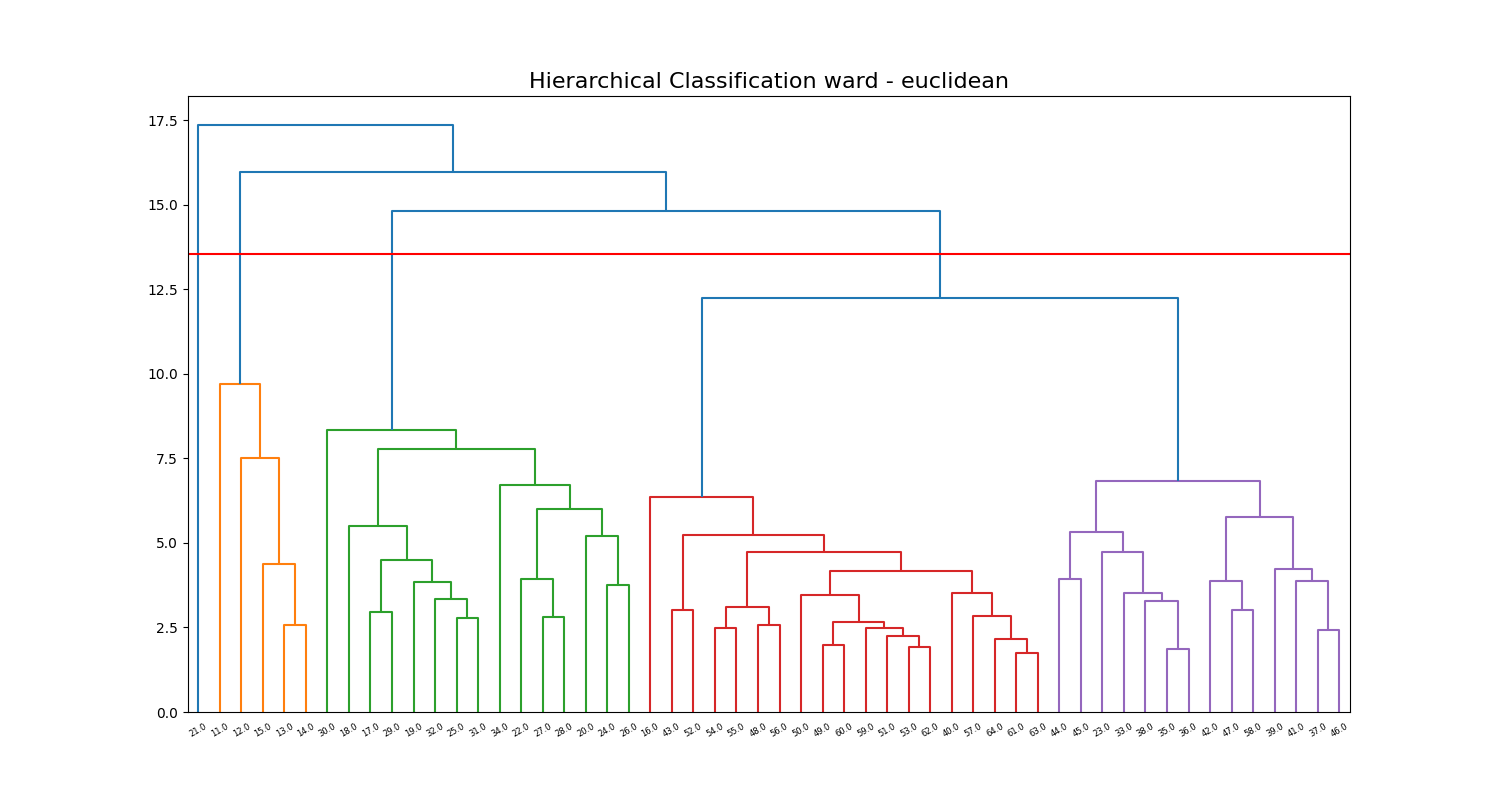
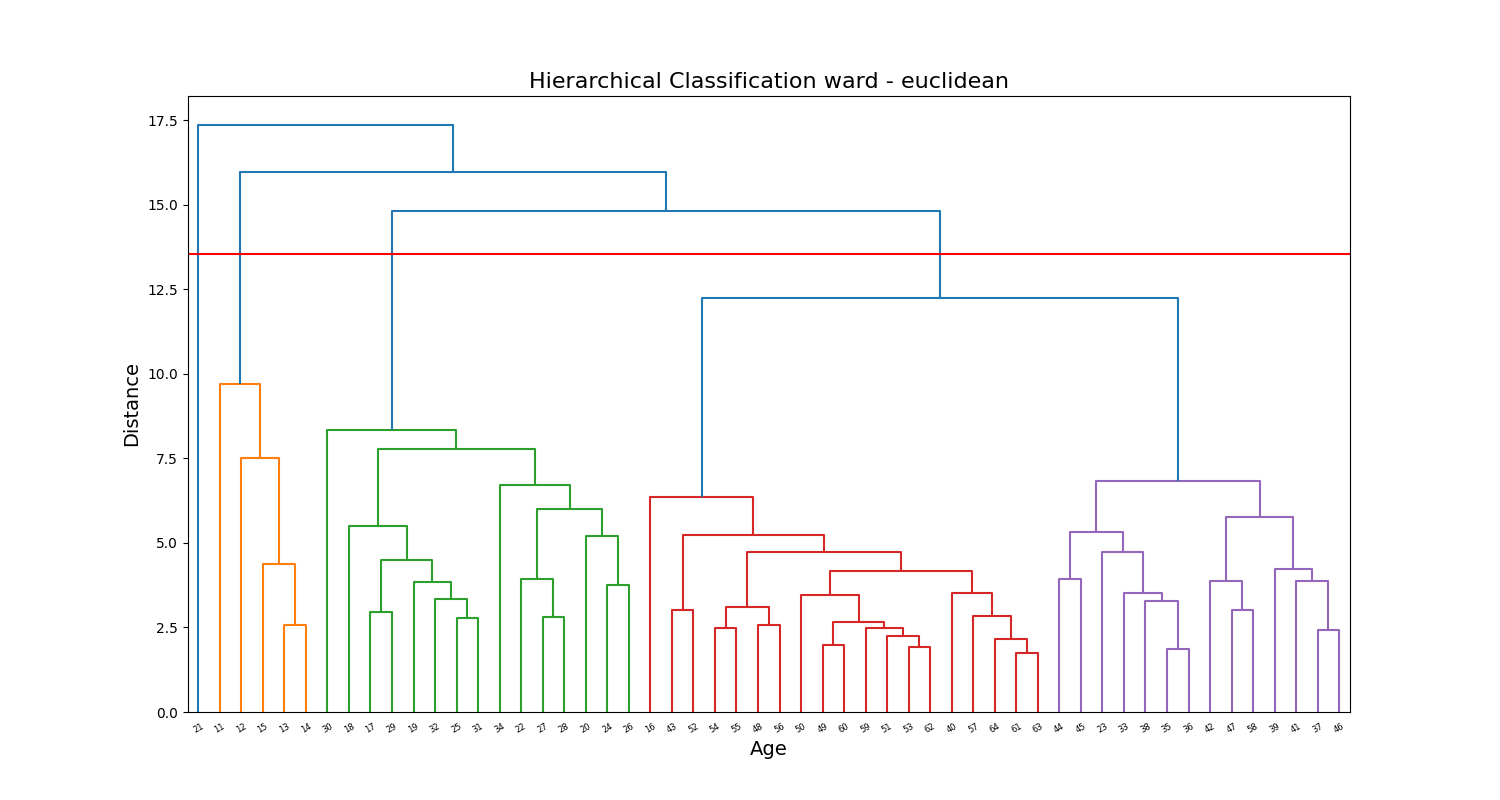
updated to HCA graph

Changed region(s): [[0.1227, 0.9062, 0.8893, 0.9375], [0.0613, 0.4688, 0.092, 0.5625]]

diff --git a/mainHCA.py b/mainHCA.py
@@ -13,6 +13,8 @@ def dendrogram(h, labels, title='Hierarchical Classification', threshold=None):
     hic.dendrogram(h, labels=labels, leaf_rotation=30)
     if threshold:
         plt.axhline(threshold, c='r')
+    plt.xlabel('Age', fontsize=14, color='k', verticalalignment='top')
+    plt.ylabel('Distance', fontsize=14, color='k', verticalalignment='bottom')
 
 def threshold(h):
     m = np.shape(h)[0]
@@ -40,7 +42,7 @@ startIdx = 10
 endIdx = 64
 
 table = pd.read_csv('dataIN/thyroid_dataset_hca.csv', index_col=0, na_values='')
-obsName = table.index[startIdx:endIdx]
+obsName = [int(i) for i in table.index[startIdx:endIdx]]
 X = table.iloc[startIdx:endIdx, :].values
 
 methods = list(hic._LINKAGE_METHODS)

diff --git a/README.md b/README.md
@@ -100,9 +100,9 @@ The factor loadings plot shows the relationship between the variables and the pr
 
 ### Hierarchical Clustering Analysis
 
-This analysis is used to cluster the data into groups based on the age of the patients, starting from $10$ all the way to $64$.
+This analysis is used to cluster the data into groups based on the age of the patients, starting from $10$ all the way up to $64$.
 
-![HCA dendrogram](/dataOUT/HCA/hierarchical_classification.png)
+![HCA dendogram](/dataOUT/HCA/hierarchical_classification.png)
 
 The dendogram shows the clustering of the ages, and it is clear that there are **three main clusters that represent different stages in life**:
 
